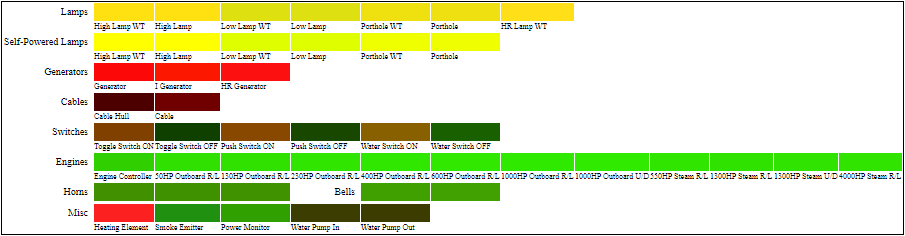
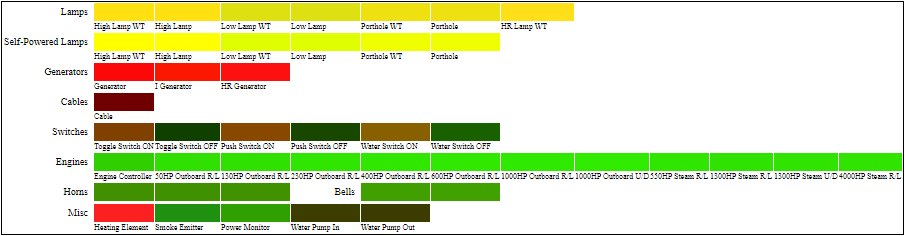
Hiding legacy electrical materials from electrical template

Changed region(s): [[0.0928, 0.3856, 0.2475, 0.5042]]

diff --git a/Scripts/generate_materials_template.py b/Scripts/generate_materials_template.py
@@ -30,6 +30,10 @@ def main():
     d={}
     
     for elem in data:
+
+        # Hide legacy elements
+        if "is_legacy_electrical" in elem and elem["is_legacy_electrical"] == True:
+            continue;
         
         row = elem["template"]["row"]
         row_parts = row.split("|")
